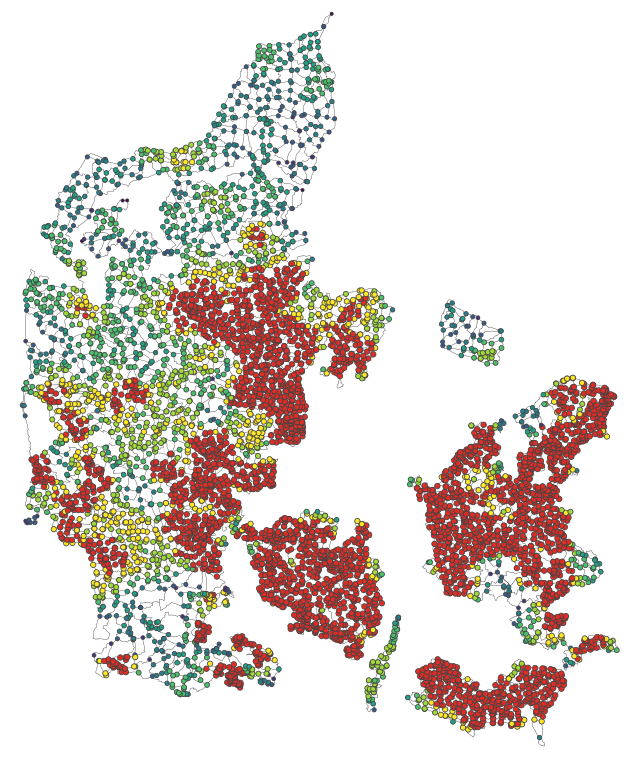
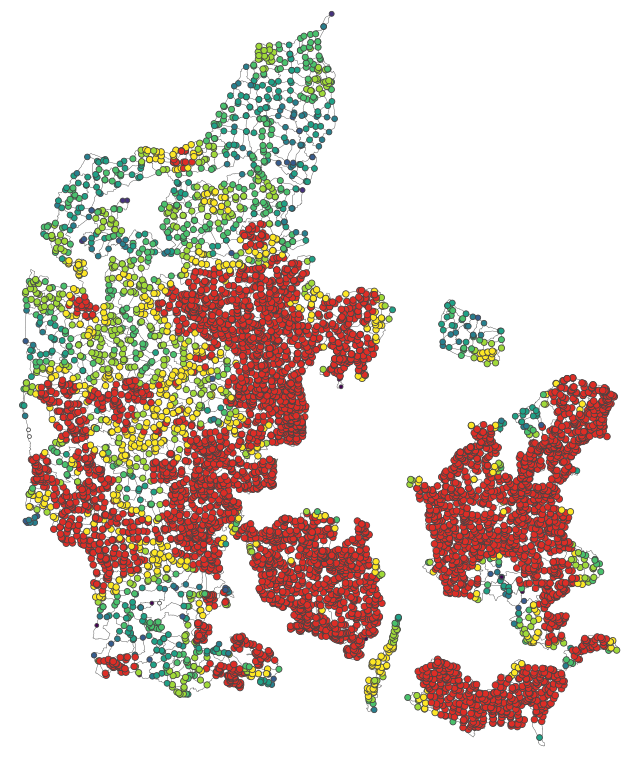
Polish scenario plots

Changed region(s): [[0.0312, 0.0303, 0.625, 0.9382], [0.625, 0.4842, 0.9688, 0.9684], [0.6875, 0.3934, 0.8125, 0.4842]]

diff --git a/code/functions.py b/code/functions.py
@@ -43,7 +43,7 @@ def get_vertex_sizes(loopinfo, max_node_size=20):
     return vertex_sizes, numloops_max
 
 
-def get_vertex_plotinfo(loopinfo, max_node_size=20, bit_threshold=8):
+def get_vertex_plotinfo(loopinfo, max_node_size=100, bit_threshold=8):
     """
     Calculate a node size and color for each node in the loopinfo
     dict for plotting given the number of loops in the node. The
@@ -69,14 +69,16 @@ def get_vertex_plotinfo(loopinfo, max_node_size=20, bit_threshold=8):
                 val = np.clip(
                     math.ceil(np.log2(len(loopinfo[k]["loops"]))), 0, bit_threshold + 1
                 )
-                vertex_sizes.append(math.sqrt(val))
-                vertex_colors[k, :] = cmaparr[val - 1, :]
+                vertex_sizes.append(math.sqrt(val) + 2)
+                vertex_colors[k, :] = cmaparr[val, :]
             else:
                 vertex_sizes.append(math.sqrt(len(loopinfo[k]["loops"])))
         except:
-            vertex_sizes.append(0)
+            val = 0
+            vertex_sizes.append(math.sqrt(val) + 2)
+            vertex_colors[k, :] = [1, 1, 1, 1]
 
-    vertex_sizes = [i / (maxbits / max_node_size) for i in vertex_sizes]
+    vertex_sizes = [(i - 0.5) / (maxbits / max_node_size) for i in vertex_sizes]
     return vertex_sizes, vertex_colors
 
 
